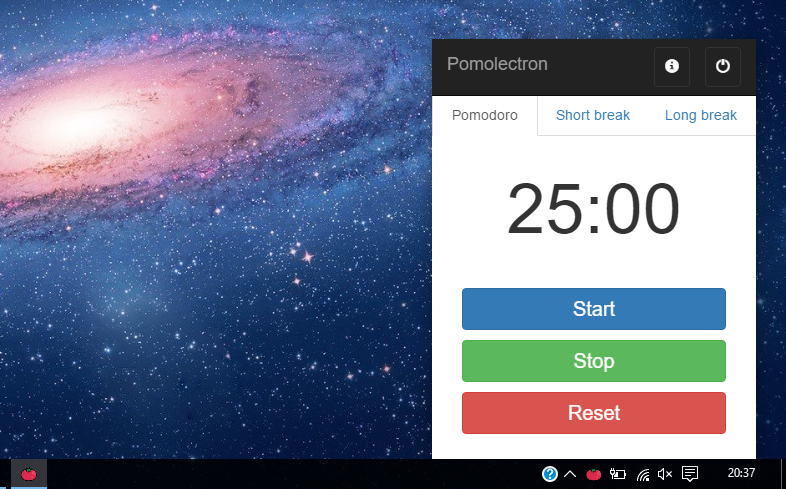
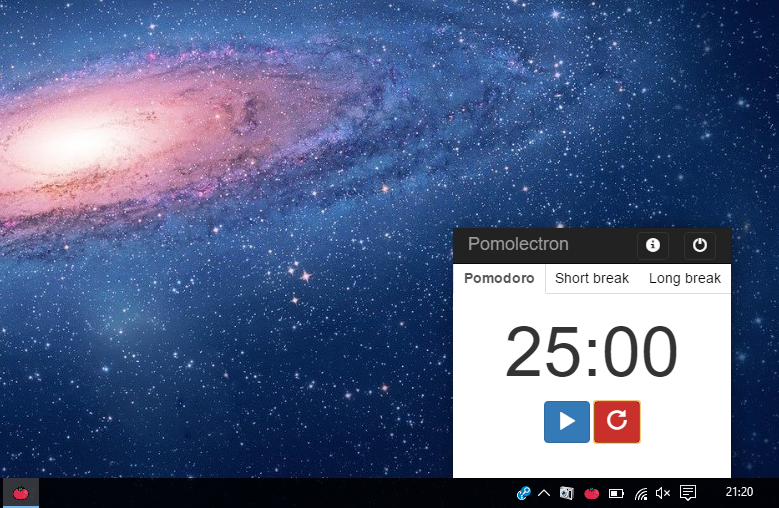
Apply design changes to make the app visually more sleek and minimal

diff --git a/index.html b/index.html
@@ -63,14 +63,12 @@
 
           <div class="starter-template">
             <div class="row">
-              <div class="col-md-4">
-                <button type="button" class="btn btn-large btn-primary full-width" id="start">Start</button>
-              </div>
-              <div class="col-md-4">
-                <button type="button" id="stop" class="btn btn-large btn-success full-width">Stop</button>
-              </div>
-              <div class="col-md-4">
-                <button type="button" class="btn btn-large btn-danger full-width" id="reset">Reset</button>
+              <div>
+                <button type="button" class="btn btn-large btn-primary full-width" id="start"><span class="glyphicon glyphicon-play"></span></button>
+
+                <button type="button" id="stop" class="btn btn-large btn-success full-width"><span class="glyphicon glyphicon-pause"></span></button>
+
+                <button type="button" class="btn btn-large btn-danger full-width" id="reset"><span class="glyphicon glyphicon-repeat"></span></button>
               </div>
             </div>
           </div>
@@ -91,14 +89,12 @@
 
           <div class="starter-template">
             <div class="row">
-              <div class="col-md-4">
-                <button type="button" class="btn btn-large btn-primary full-width" id="short_start">Start</button>
-              </div>
-              <div class="col-md-4">
-                <button type="button" class="btn btn-large btn-success full-width" id="short_stop">Stop</button>
-              </div>
-              <div class="col-md-4">
-                <button type="button" class="btn btn-large btn-danger full-width" id="short_reset">Reset</button>
+              <div>
+                <button type="button" class="btn btn-large btn-primary full-width" id="short_start"><span class="glyphicon glyphicon-play"></span></button>
+
+                <button type="button" class="btn btn-large btn-success full-width" id="short_stop"><span class="glyphicon glyphicon-pause"></span></button>
+
+                <button type="button" class="btn btn-large btn-danger full-width" id="short_reset"><span class="glyphicon glyphicon-repeat"></span></button>
               </div>
             </div>
           </div>
@@ -119,14 +115,12 @@
 
           <div class="starter-template">
             <div class="row">
-              <div class="col-md-4">
-                <button type="button" class="btn btn-large btn-primary full-width" id="long_start">Start</button>
-              </div>
-              <div class="col-md-4">
-                <button type="button" class="btn btn-large btn-success full-width" id="long_stop">Stop</button>
-              </div>
-              <div class="col-md-4">
-                <button type="button" class="btn btn-large btn-danger full-width" id="long_reset">Reset</button>
+              <div>
+                <button type="button" class="btn btn-large btn-primary full-width" id="long_start"><span class="glyphicon glyphicon-play"></span></button>
+
+                <button type="button" class="btn btn-large btn-success full-width" id="long_stop"><span class="glyphicon glyphicon-pause"></span></button>
+
+                <button type="button" class="btn btn-large btn-danger full-width" id="long_reset"><span class="glyphicon glyphicon-repeat"></span></button>
               </div>
             </div>
           </div>

diff --git a/js/app.js b/js/app.js
@@ -21,10 +21,14 @@ $('#start').click(() => {
   }
 
   startTimer(pomodoroTime, display);
+  $('#stop').show();
+  $('#start').hide();
 })
 
 $('#stop').click(() => {
   stopTimer();
+  $('#start').show();
+  $('#stop').hide();
 });
 
 $('#reset').click(() => {
@@ -32,6 +36,9 @@ $('#reset').click(() => {
   seconds = 60;
   display.textContent = "25:00";
   resetTimer();
+
+  $('#start').show();
+  $('#stop').hide();
 });
 
 $('#short_start').click(() => {
@@ -42,10 +49,14 @@ $('#short_start').click(() => {
   }
 
   startTimer(pomodoroTime, display_short);
+  $('#short_stop').show();
+  $('#short_start').hide();
 })
 
 $('#short_stop').click(() => {
   stopTimer();
+  $('#short_start').show();
+  $('#short_stop').hide();
 });
 
 $('#short_reset').click(() => {
@@ -53,6 +64,9 @@ $('#short_reset').click(() => {
   seconds = 60;
   display_short.textContent = "05:00";
   resetTimer(display_short);
+
+  $('#short_start').show();
+  $('#short_stop').hide();
 });
 
 $('#long_start').click(() => {
@@ -63,10 +77,15 @@ $('#long_start').click(() => {
   }
 
   startTimer(pomodoroTime, display_long);
+
+  $('#long_stop').show();
+  $('#long_start').hide();
 })
 
 $('#long_stop').click(() => {
   stopTimer();
+  $('#long_start').show();
+  $('#long_stop').hide();
 });
 
 $('#long_reset').click(() => {
@@ -74,6 +93,8 @@ $('#long_reset').click(() => {
   seconds = 60;
   display_long.textContent = "10:00";
   resetTimer();
+  $('#long_start').show();
+  $('#long_stop').hide();
 });
 
 function startTimer(duration, display) {

diff --git a/css/starter-template.css b/css/starter-template.css
@@ -1,14 +1,13 @@
 body {
-  padding-top: 55px;
+  padding-top: 34px;
   overflow-y:hidden;
 }
 .starter-template {
-  padding: 15px 15px;
   text-align: center;
 }
 
 .full-width{
-  width:100% !important;
+  /*width:50% !important;*/
   margin-bottom: 10px;
   font-size: 20px;
 }
@@ -17,10 +16,24 @@ h1 {
    font-size: 80px;
 }
 
+.btn-success{
+  display: none;
+}
+
+.nav > li > a {
+    padding: 5px 5px !important;
+    margin-right: 0 !important;
+    color: black;
+}
+
 .nav-tabs > li {
     /* width = (100 / number of tabs). This example assumes 3 tabs. */
     width:33.33333%;
     text-align: center;
+}
+
+.nav-tabs>li.active>a{
+  font-weight:bold;
 }
 
 .custom-btn{
@@ -33,7 +46,24 @@ h1 {
   border-color: #fff;
 }
 
-.navbar {min-height:20px !important}
+.navbar {
+  min-height:26px;
+  line-height:26px;
+}
+
+.navbar-brand{
+  float: none;
+  text-align: center;
+  height: 30px;
+  padding: 10px 15px;
+  line-height: 33px;
+}
+
+.navbar-toggle{
+  padding: 0px 8px;
+  margin-top: 4px;
+  margin-bottom: 3px;
+}
 
 /* xs < 768 */
 @media screen and (max-width: 767px) {

diff --git a/index.js b/index.js
@@ -4,7 +4,7 @@ var menubar = require('menubar');
 
 const ipcMain = require('electron').ipcMain;
 
-var mb = menubar({dir:__dirname, tooltip: "Pomolectron", icon:__dirname + "/res/tomato.png", width:324, height:420, resizable: false, alwaysOnTop :true});
+var mb = menubar({dir:__dirname, tooltip: "Pomolectron", icon:__dirname + "/res/tomato.png", width:278, height:250, resizable: false, alwaysOnTop :true});
 
 const contextMenu = electron.Menu.buildFromTemplate([
   {

diff --git a/js/notification.js b/js/notification.js
@@ -15,7 +15,7 @@ function notifyUser() {
     Notification.requestPermission();
   else {
     var notification = new Notification('Buzzz!! Time\'s up', {
-      icon: 'https://raw.githubusercontent.com/amitmerchant1990/pomolectron/master/res/tomato-big.png',
+      icon: 'res/tomato-big.png',
       body: "Hey there! You've been notified!"
     });
 
